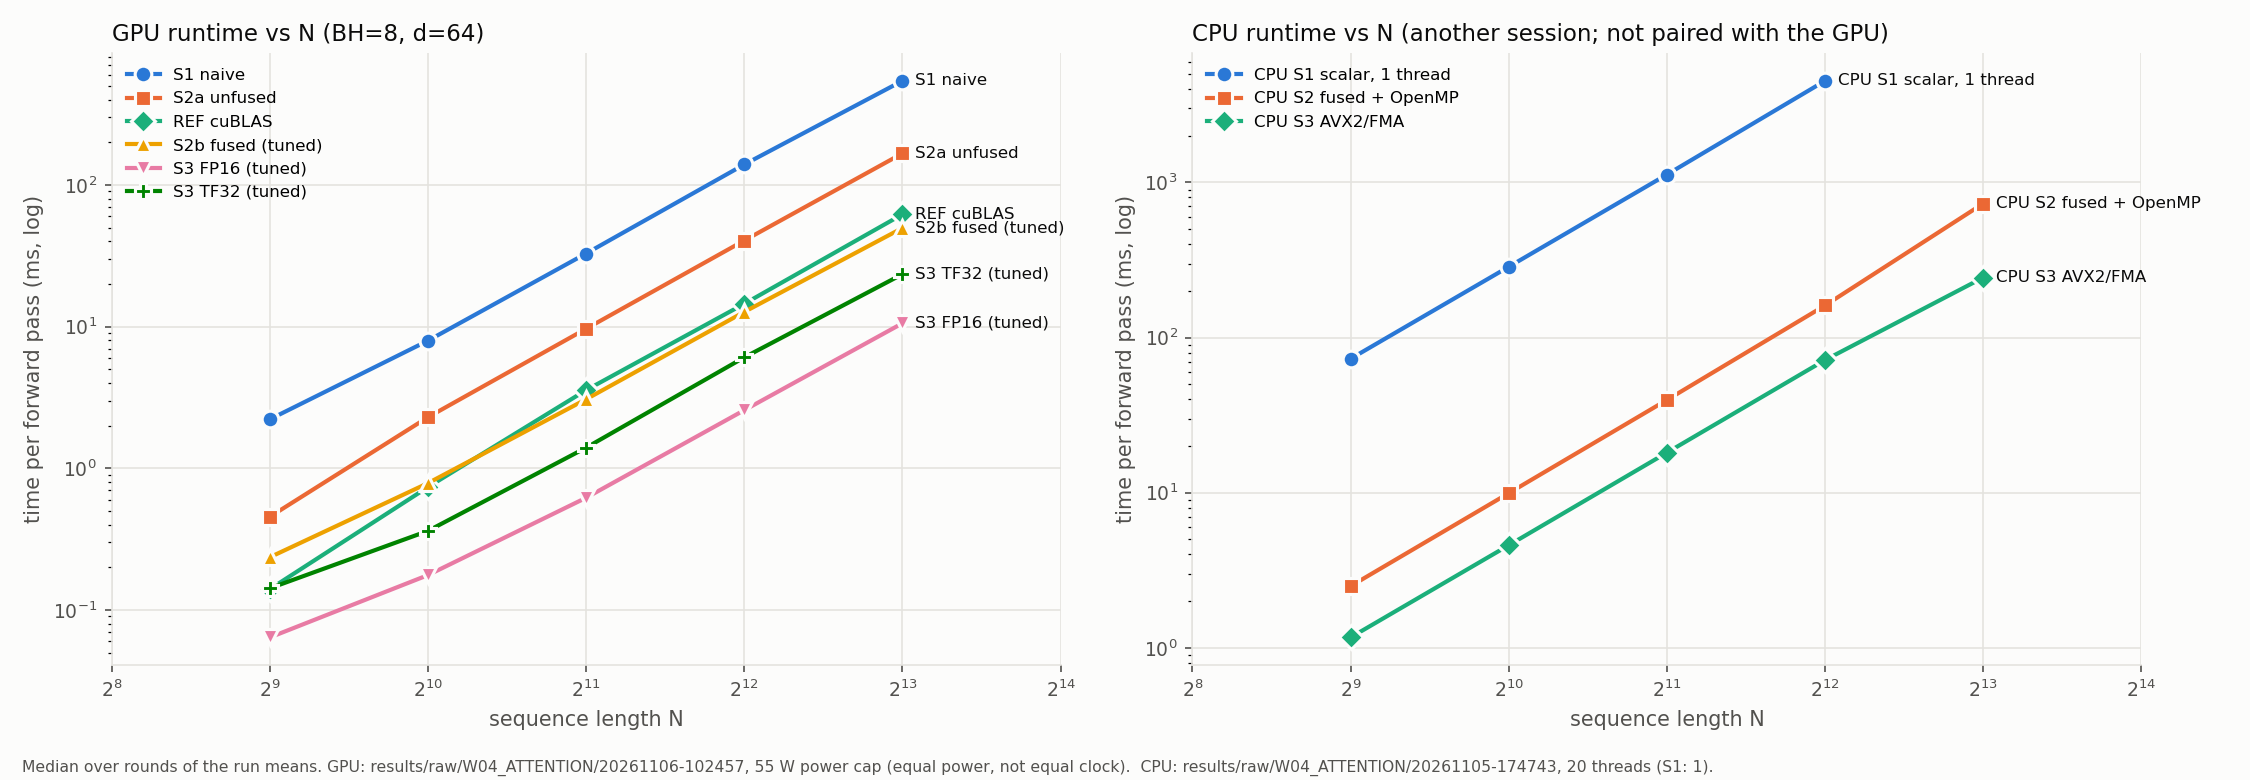
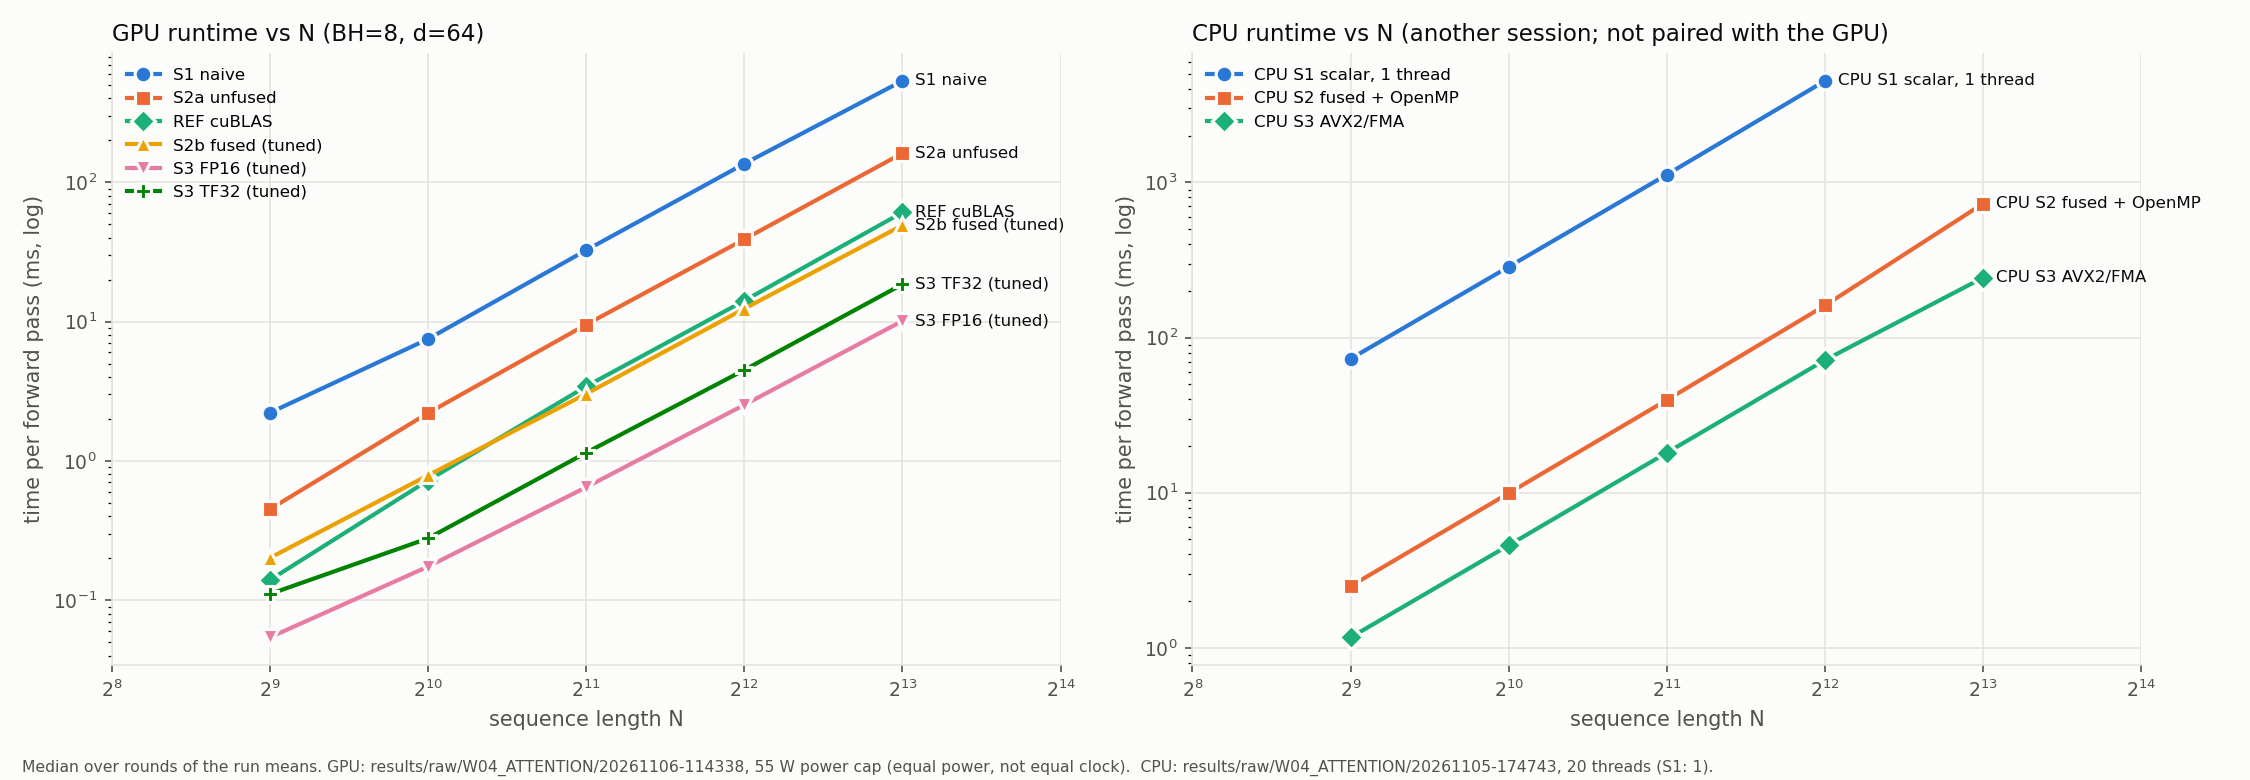
W04 P7: demo integration and live fusion bytes

diff --git a/tools/w04_summary.py b/tools/w04_summary.py
@@ -10,7 +10,11 @@ If the run folder has gpu_state.csv, each run is matched to the nvidia-smi
 samples taken between its start (commands.log) and the next run's start, and
 the median SM clock / power / max temperature over those samples are shown.
 The first-rep column is rep 1's time relative to the mean of the other reps
-(a clock ramp-up shows up as a positive value).
+(a clock ramp-up shows up as a positive value). On the GPU rep 1 is the
+faster one (it runs before the 55 W power cap engages), so the steady column
+gives the median over runs of the mean of reps 2..R, the power-capped steady
+state (open issue 9, option b). Ratios and plots keep using the mean of all
+reps (the protocol); quote steady next to it where rep 1 matters.
 If a CSV has a non-empty prep_ms column (P4, decision C23: the untimed FP16
 conversion of GPU S3), a second table shows the median prep time per (stage, N),
 its size relative to runtime_ms, and runtime + prep.
@@ -130,14 +134,14 @@ def main():
 
         print(f"\n== {exp} ({run}) ==")
         wid = max([38] + [len(k[0]) for k in runs])
-        hdr = f"{'stage':<{wid}} {'N':>5} {'runs':>4} {'median ms':>11} {'GFLOP/s':>8} {'spread%':>8} {'repSD%':>7} {'rep1%':>6}"
+        hdr = f"{'stage':<{wid}} {'N':>5} {'runs':>4} {'median ms':>11} {'steady ms':>10} {'GFLOP/s':>8} {'spread%':>8} {'repSD%':>7} {'rep1%':>6}"
         if window:
             hdr += f" {'SM MHz':>7} {'W':>5} {'Tmax':>5}"
         print(hdr)
         med_by = {}
         for key in sorted(runs, key=lambda k: (k[1], k[0])):
             sid, n = key
-            per_run = []
+            per_run, steady = [], []
             sds, rep1 = [], []
             for k, ts in enumerate(sorted(runs[key])):
                 reps = [ms for _, ms in sorted(runs[key][ts])]
@@ -147,10 +151,12 @@ def main():
                     sds.append(100 * st.stdev(reps) / m)
                     rest = st.mean(reps[1:])
                     rep1.append(100 * (reps[0] - rest) / rest)
+                    steady.append(rest)
             med = st.median(per_run)
             med_by[key] = med
             spread = 100 * (max(per_run) - min(per_run)) / med
-            line = (f"{sid:<{wid}} {n:>5} {len(per_run):>4} {med:>11.4f} {flops[key] / med / 1e6:>8.1f} "
+            sty = f"{st.median(steady):>10.4f}" if steady else f"{'-':>10}"
+            line = (f"{sid:<{wid}} {n:>5} {len(per_run):>4} {med:>11.4f} {sty} {flops[key] / med / 1e6:>8.1f} "
                     f"{spread:>8.1f} {st.mean(sds) if sds else 0:>7.1f} {st.mean(rep1) if rep1 else 0:>6.1f}")
             if window:
                 w = [window[(sid, n, k)] for k in range(len(per_run)) if (sid, n, k) in window]

diff --git a/tools/plot_w04.py b/tools/plot_w04.py
@@ -1,7 +1,7 @@
 #!/usr/bin/env python3
 """W04 plots: E1 runtime vs N, E2 factored speedups, E3 measured-traffic Roofline, E6 memory vs N.
 
-    python3 tools/plot_w04.py <gpu_run> [--cpu-run <run>] [--e3 <dir> ...] [--out docs/figures/w04]
+    python3 tools/plot_w04.py <gpu_run> [--cpu-run <run>] [--e3 <dir> ...] [--e3-replace <dir> ...] [--out docs/figures/w04]
 
 <gpu_run>  a results/raw/W04_ATTENTION/<TS> folder with gpu_nsweep/ (decision C35:
            every GPU point of E1, E2, E6 and the Roofline's y values come from this
@@ -13,7 +13,11 @@
            processes that allocate GPU memory during a run (browser, desktop)
            change it, so E6 may need a session without them (P6: the P4 sweep)
 --e3       ncu E3 folders (profiling/W04_ATTENTION/e3/<TS>); without them the
-           Roofline shows the algorithmic operational intensity only
+           Roofline shows the algorithmic operational intensity only. A (stage, N)
+           found in several folders is averaged over them
+--e3-replace  ncu folders whose (stage, N) entries replace those from --e3 instead
+           of being averaged with them (a stage rebuilt after the --e3 runs, e.g.
+           the TF32 fragment-load fix, issue 17)
 --out      output folder (default docs/figures/w04)
 
 Times: for every (stage CSV, N) each process run (one timestamp, `reps` rows)
@@ -403,6 +407,7 @@ def main():
     ap.add_argument("--cpu-run")
     ap.add_argument("--e6-run")
     ap.add_argument("--e3", nargs="*", default=[])
+    ap.add_argument("--e3-replace", nargs="*", default=[])
     ap.add_argument("--out", default="docs/figures/w04")
     a = ap.parse_args()
     gdir = os.path.join(a.gpu_run, "gpu_nsweep")
@@ -412,6 +417,8 @@ def main():
     gpu = load_sweep(gdir)
     cpu = load_sweep(os.path.join(a.cpu_run, "nsweep")) if a.cpu_run else None
     e3 = load_e3(a.e3)
+    if a.e3_replace:
+        e3.update(load_e3(a.e3_replace))
     clock = median_sm_clock(a.gpu_run)
     os.makedirs(a.out, exist_ok=True)
     made = [fig_e1(gpu, cpu, a.out, a.gpu_run, a.cpu_run), fig_e2(gpu, a.out, a.gpu_run),

diff --git a/README.md b/README.md
@@ -35,10 +35,11 @@ Measured on the hardware above (mean of 5 repetitions). W04 CPU numbers come fro
 | W03 GPU | ~3.5× faster (2.83 → 0.80 ms) | Shared-memory reuse, then Tensor Cores (`HMMA` verified in SASS) |
 | W04 CPU | ~62× faster at N=1024 (285.8 → 4.59 ms; 7.5 → 469 GFLOP/s) | Fusion + blocking (S1→S2 28.8×), then 8-wide FMA and a vector `exp` (S2→S3 2.2×), on 20 threads |
 | W04 GPU (unfused) | S1→S2a ~3.4× at N=1024 (7.63 → 2.23 ms); cuBLAS-based reference 0.75 ms | Tiled GEMMs and a warp-per-row softmax; S2a's GEMMs are limited by shared-memory loads. With cuBLAS GEMMs the N×N softmax becomes the largest kernel (46% at N=8192): the cost that fusion removes |
-| W04 GPU (fused) | S2a→S2b 2.0–2.1× (32×32 tile) and 2.9–3.0× (64×64) at N=2048–8192; at N=4096: 38.75 → 18.77 / 13.33 ms. S2b 64×64 matches or beats the cuBLAS-based unfused reference from N=2048 | One kernel, no N×N intermediate: measured DRAM traffic drops ~33–42× at N=4096 (≈2.2 GB → 52–68 MB) and operational intensity rises from ~15 to 500–650 FLOP/B. The speedup also includes register-tiled inner GEMMs (fewer shared-memory loads per FMA), so it is not fusion alone |
-| W04 GPU (Tensor Cores) | S2b 64×64 → S3: FP16 5.0–5.2×, TF32 1.7–1.8× at N=2048–8192; at N=4096: 13.36 → 2.56 ms (FP16, 13.4 TFLOP/s) / 7.57 ms (TF32, 4.5 TFLOP/s). S1 → S3 FP16 52.6× at N=8192. Converting Q, K, V to FP16 adds 2–6% | Both inner GEMMs on the Tensor Cores with FP32 accumulation; max relative error ≤ 3.7e-4 against a double-precision reference. Nsight Compute: tensor pipe 22% busy, `exp` unit 6%: the kernel is limited by latency at low occupancy (2 warps per scheduler), not by any execution unit. TF32 is ~3× slower than FP16 (half the Tensor Core rate, more instructions, half the occupancy) |
+| W04 GPU (fused) | S2a→S2b 2.0–2.1× (32×32 tile) and 2.9–3.0× (64×64) at N=2048–8192; at N=4096: 38.75 → 18.77 / 13.33 ms. S2b 64×64 matches or beats the cuBLAS-based unfused reference from N=2048 at the GPU's 55 W power limit (not at an equal SM clock, see "W04 follow-up") | One kernel, no N×N intermediate: measured DRAM traffic drops ~33–42× at N=4096 (≈2.2 GB → 52–68 MB) and operational intensity rises from ~15 to 500–650 FLOP/B. The speedup also includes register-tiled inner GEMMs (fewer shared-memory loads per FMA), so it is not fusion alone |
+| W04 GPU (Tensor Cores) | S2b 64×64 → S3: FP16 5.0–5.2×, TF32 1.7–1.8× at N=2048–8192; at N=4096: 13.36 → 2.56 ms (FP16, 13.4 TFLOP/s) / 7.57 ms (TF32, 4.5 TFLOP/s; P4 build, before the TF32 load fix in "W04 follow-up"). S1 → S3 FP16 52.6× at N=8192. Converting Q, K, V to FP16 adds 2–6% | Both inner GEMMs on the Tensor Cores with FP32 accumulation; max relative error ≤ 3.7e-4 against a double-precision reference. Nsight Compute: tensor pipe 22% busy, `exp` unit 6%: the kernel is limited by latency at low occupancy (2 warps per scheduler), not by any execution unit. TF32 is ~3× slower than FP16 (half the Tensor Core rate, more instructions, half the occupancy) |
 | W04 GPU (autotune) | Search over tile (Br × Bc ∈ {16, 32, 64}²) × warps per block (2, 4, 8) at N=2048 and 4096: S2b best 64×32 with 4 warps, 1.53–1.62× its old 32×32 default and 1.08–1.10× the 64×64 tile with 8 warps (12.40 ms, 2.77 TFLOP/s at N=4096); S3 TF32 best 64×32 with 4 warps, 1.32–1.36× its 64×64 default; S3 FP16 unchanged within noise (64×32 and 64×64, 4 warps, tie). `--use_fast_math` on S2b: 1–5% faster, same error (2.2e-6) | The 64×32 tile with 4 warps fits 2 blocks per SM, so the 8 warps per SM come from two independent blocks. Nsight Compute shows the same FMAs per shared-memory load and the same barrier stalls as 64×64 with 8 warps, but 3× fewer waits on shared-memory loads (1.78 → 0.58 cycles per instruction). For S3 TF32 the smaller tile doubles the blocks per SM (1 → 2). Fast-math removes the `exp` range reduction and the exact-division path (25–29% fewer instructions in the kernel), but these are outside the inner FMA loops |
 | W04 profiling | Naive GPU attention (S1): the QKᵀ kernel takes 65% of the time at 2.5% of DRAM bandwidth; the N×N softmax only 20%. Fused FP32 kernel (S2b) vs unfused (S2a) at N=2048: 3.15× faster, of which fusion alone is 1.15× and register tiling 2.74×. Tensor Core kernel (S3 FP16) at N=2048: 13.9 TFLOP/s, 48% of the FP16 Tensor Core peak at the measured 55 W clock. S1 → S3 FP16 53× at N=2048 | S1's QKᵀ kernel is limited by the L1 cache, not DRAM: its K loads are uncoalesced (9 sectors per request instead of 4). Fusion removes 24–41× of the DRAM bytes, but S2a's GEMMs were not DRAM-bound either, so the time saved is small; most of the gain is register tiling. S3 is latency-bound at 2 warps per scheduler: the waits are spread over dependent instructions, Tensor Core issue bursts (19% of stall samples), and the synchronous copy of K/V tiles into shared memory. On the CPU, L2 misses stay rare (≤ 0.016 per 1000 instructions) when K/V outgrow L2, and `exp` is 17% of the fused stage's time; the AVX2 stage's 2.9× comes from 256-bit FMA and 4.5× fewer instructions |
+| W04 follow-up | S3 TF32 with shared-memory fragment loads: 1.22–1.35× faster at N=512–8192 (N=4096: 6.07 → 4.49 ms, 7.6 TFLOP/s); TF32 is now 1.8× slower than FP16 (was 2.3×). At a locked 1500 MHz SM clock, the ratios between the fused kernels (S2b, S3 FP16, S3 TF32) change by ≤ 6% versus the 55 W runs, but every ratio against the cuBLAS-based reference falls by ~30%: at equal clock S2b tuned is 1.29× slower than the reference | `wmma::load_matrix_sync` for TF32 emits generic loads (`LD.E`); explicit `.shared` PTX turns all 3,000 into `LDS` with bitwise-identical output. The reference's time barely depends on the SM clock (1.79× lower clock, 1.09× longer time at N=2048): it is limited by memory traffic (operational intensity ≈ 15 FLOP/B), while the fused kernels are compute-bound. Nsight Compute on S2b at N=4096: L1→L2 read misses equal the compulsory Q+K+V bytes exactly (25.2 MB). The extra shared-memory waits of the 64×64 tile with 8 warps are FFMAs waiting for shared loads (88% of those stall samples) |
 
 ## Status
 
@@ -51,8 +52,8 @@ Measured on the hardware above (mean of 5 repetitions). W04 CPU numbers come fro
 | W04 P3 | GPU S2b fused kernel | done: one FlashAttention-2-style FP32 kernel (online softmax, no N×N buffer, peak device memory linear in N); faster than S2a at every N (1.5–2.1× at 32×32, 2.1–3.0× at 64×64, N=512–8192); DRAM bytes measured with Nsight Compute: ~21–42× fewer than S2a at N=2048–4096 |
 | W04 P4 | GPU S3 Tensor Core kernel | done: FP16 (WMMA m16n16k16, `HMMA.16816.F32`) and TF32 (m16n16k8, `HMMA.1684.F32.TF32`) variants of the fused kernel, FP32 softmax, accumulation and output, 64×64 tiles; FP16 5.0–5.2× and TF32 1.7–1.8× faster than the FP32 fused kernel at the same tile (N=2048–8192); Nsight Compute shows no saturated pipe (tensor pipe 22% busy) — the kernel is latency-bound at low occupancy |
 | W04 P5 | autotuning | done: 45 tile × warps configurations per N (36 skipped with a recorded reason), screen + full-protocol finals at N=2048/4096; new defaults in `src/common/w04_tuned.hpp` (S2b 64×32/4 warps, 1.5–1.6× the old default; S3 TF32 64×32/4 warps, 1.3–1.4×; S3 FP16 64×32 at N ≤ 3072, 64×64 above, a tie); heatmaps in `docs/figures/w04/`; `--use_fast_math` on S2b 1–5% faster at unchanged error |
-| W04 P6 | profiling and plots | done: Nsight Compute DRAM bytes and stall reasons per kernel, Nsight Systems launch gaps (0.6–0.8 µs between kernels), CPU counters (`perf stat`, VTune hotspots); four hypotheses tested against profiler counters (results row "W04 profiling" above); plots in `docs/figures/w04/` |
-| W04 P7 | demo integration | planned |
+| W04 P6 | profiling and plots | done: Nsight Compute DRAM bytes and stall reasons per kernel, Nsight Systems launch gaps (0.6–0.8 µs between kernels), CPU counters (`perf stat`, VTune hotspots); four hypotheses tested against profiler counters (results row "W04 profiling" above); plots in `docs/figures/w04/`; follow-up: TF32 shared-memory fragment loads (1.2–1.35×) and an equal-clock check (results row "W04 follow-up") |
+| W04 P7 | demo integration | done (live race + fusion cue; the demo kit is not part of this repository yet) |
 
 ## Requirements
 

diff --git a/docs/W04_Attention_Plan.md b/docs/W04_Attention_Plan.md
@@ -1,7 +1,7 @@
 # W04 Plan: Fused Attention (Deep-Learning Workload)
 
 **Project:** GPU-CPU-Performance-Profiling_and-Optimization
-**Status:** P0–P3 done (CPU stages; GPU S1, S2a, REF_CUBLAS, S2b fused with E3 DRAM bytes); P4 (Tensor Core S3, FP16 and TF32) done 6 Nov 2026 (decisions C22–C26; H3 verdict in PROGRESS); P5 (autotune E7 + GPU fast-math study) planned 6 Nov 2026 (decisions C27–C31: warps axis, `--warps` + 30-column CSV, tuned-defaults header) done 6 Nov 2026: tuned defaults in `src/common/w04_tuned.hpp`, results in PROGRESS; P6 (profiling E3–E6, E8, plots) planned 6 Nov 2026 (decisions C32–C36, PROGRESS "P6 plan") done 6 Nov 2026: H1 rejected, H2 and H3 partly supported, H4 not supported (verdict table in PROGRESS "P6 step 3 — data, part 2"). See `docs/W04_PROGRESS.md` for what is measured
+**Status:** P0–P3 done (CPU stages; GPU S1, S2a, REF_CUBLAS, S2b fused with E3 DRAM bytes); P4 (Tensor Core S3, FP16 and TF32) done 6 Nov 2026 (decisions C22–C26; H3 verdict in PROGRESS); P5 (autotune E7 + GPU fast-math study) planned 6 Nov 2026 (decisions C27–C31: warps axis, `--warps` + 30-column CSV, tuned-defaults header) done 6 Nov 2026: tuned defaults in `src/common/w04_tuned.hpp`, results in PROGRESS; P6 (profiling E3–E6, E8, plots) planned 6 Nov 2026 (decisions C32–C36, PROGRESS "P6 plan") done 6 Nov 2026: H1 rejected, H2 and H3 partly supported, H4 not supported (verdict table in PROGRESS "P6 step 3 — data, part 2"). P7 (demo integration) planned and done 6 Nov 2026 (decisions C37–C43, PROGRESS "P7"; machine-specific demo paths kept, so the demo kit stays private). See `docs/W04_PROGRESS.md` for what is measured
 **Hardware:** Intel Core i7-13650HX (6P+8E, AVX2/FMA) · RTX 4060 Laptop GPU (sm_89, 24 SMs, 8 GiB, 128-bit GDDR6)
 **Date:** 4 Nov 2026
 
